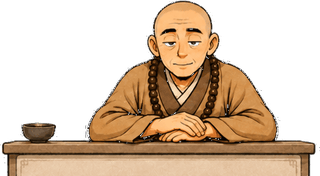
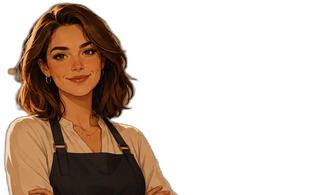
feat(chatbot): swap monk for Lena (gastro persona) + remove eye-backdrop
Replace monk-top.png with Lena from visual-style-library (gastro
character), background-removed via rembg and cropped at the waist
to match the monk's aspect ratio (320×195, was 320×176).

Lena's PNG keeps her eye-whites intact, so the cream radial backdrop
workaround is no longer needed — removed .kbot-monk-wrap::before.

diff --git a/public/widgets/chatbot.js b/public/widgets/chatbot.js
@@ -112,27 +112,6 @@
         width: 100%;
         line-height: 0;
       }
-      /* Cream backdrop behind monk's face fills gaps where bg-removal also
-         erased eye-whites — without this they look hollow on the dark theme.
-         Sits above the page bg but below the monk PNG. Only covers the
-         head area (top ~55%), so the table/desk at the bottom keeps clean
-         transparent edges. */
-      .kbot-monk-wrap::before {
-        content: "";
-        position: absolute;
-        /* Spans both eyes — measured pupil centers at x 49% (left eye)
-           and x 66% (right eye), eye band y 22-41%. */
-        left: 47.5%; right: 31.5%;
-        top: 23%; height: 16%;
-        background: radial-gradient(ellipse at 50% 50%,
-          rgba(252, 248, 240, 1) 0%,
-          rgba(252, 248, 240, 0.95) 50%,
-          rgba(252, 248, 240, 0.45) 80%,
-          rgba(252, 248, 240, 0) 100%);
-        filter: blur(2px);
-        pointer-events: none;
-        z-index: 0;
-      }
       .kbot-monk-top {
         display: block;
         width: 100%;